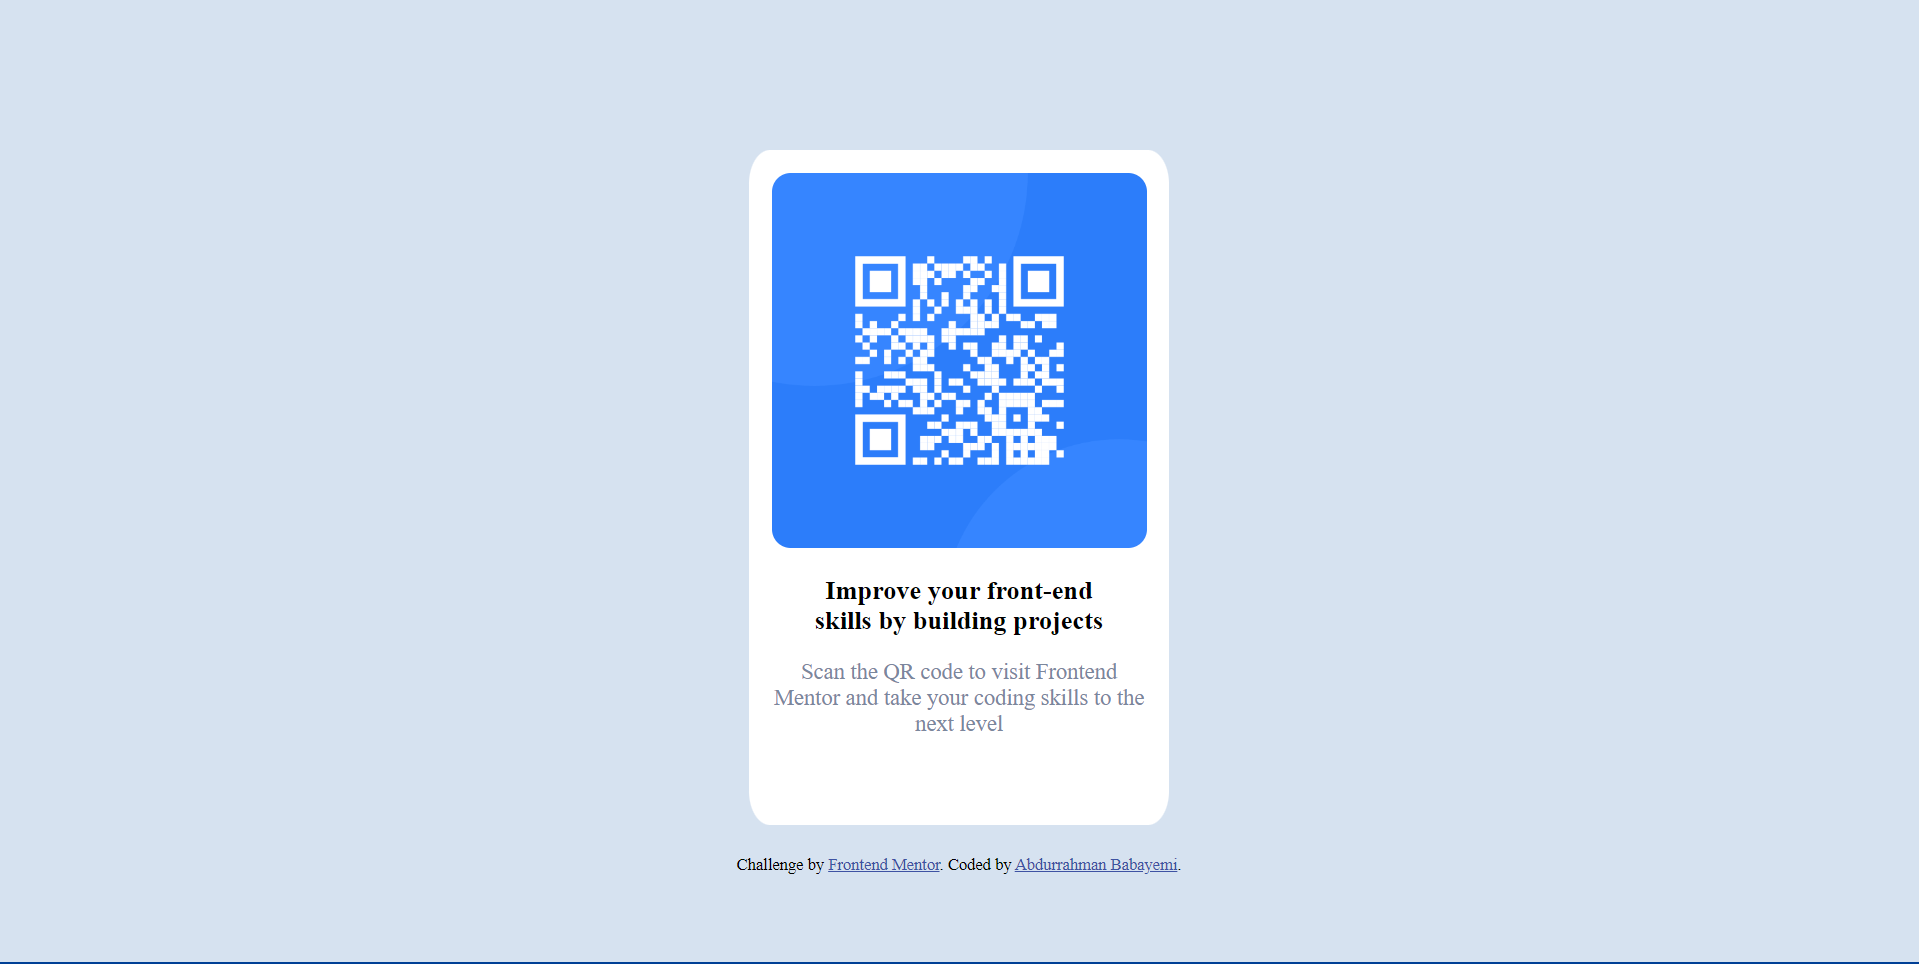
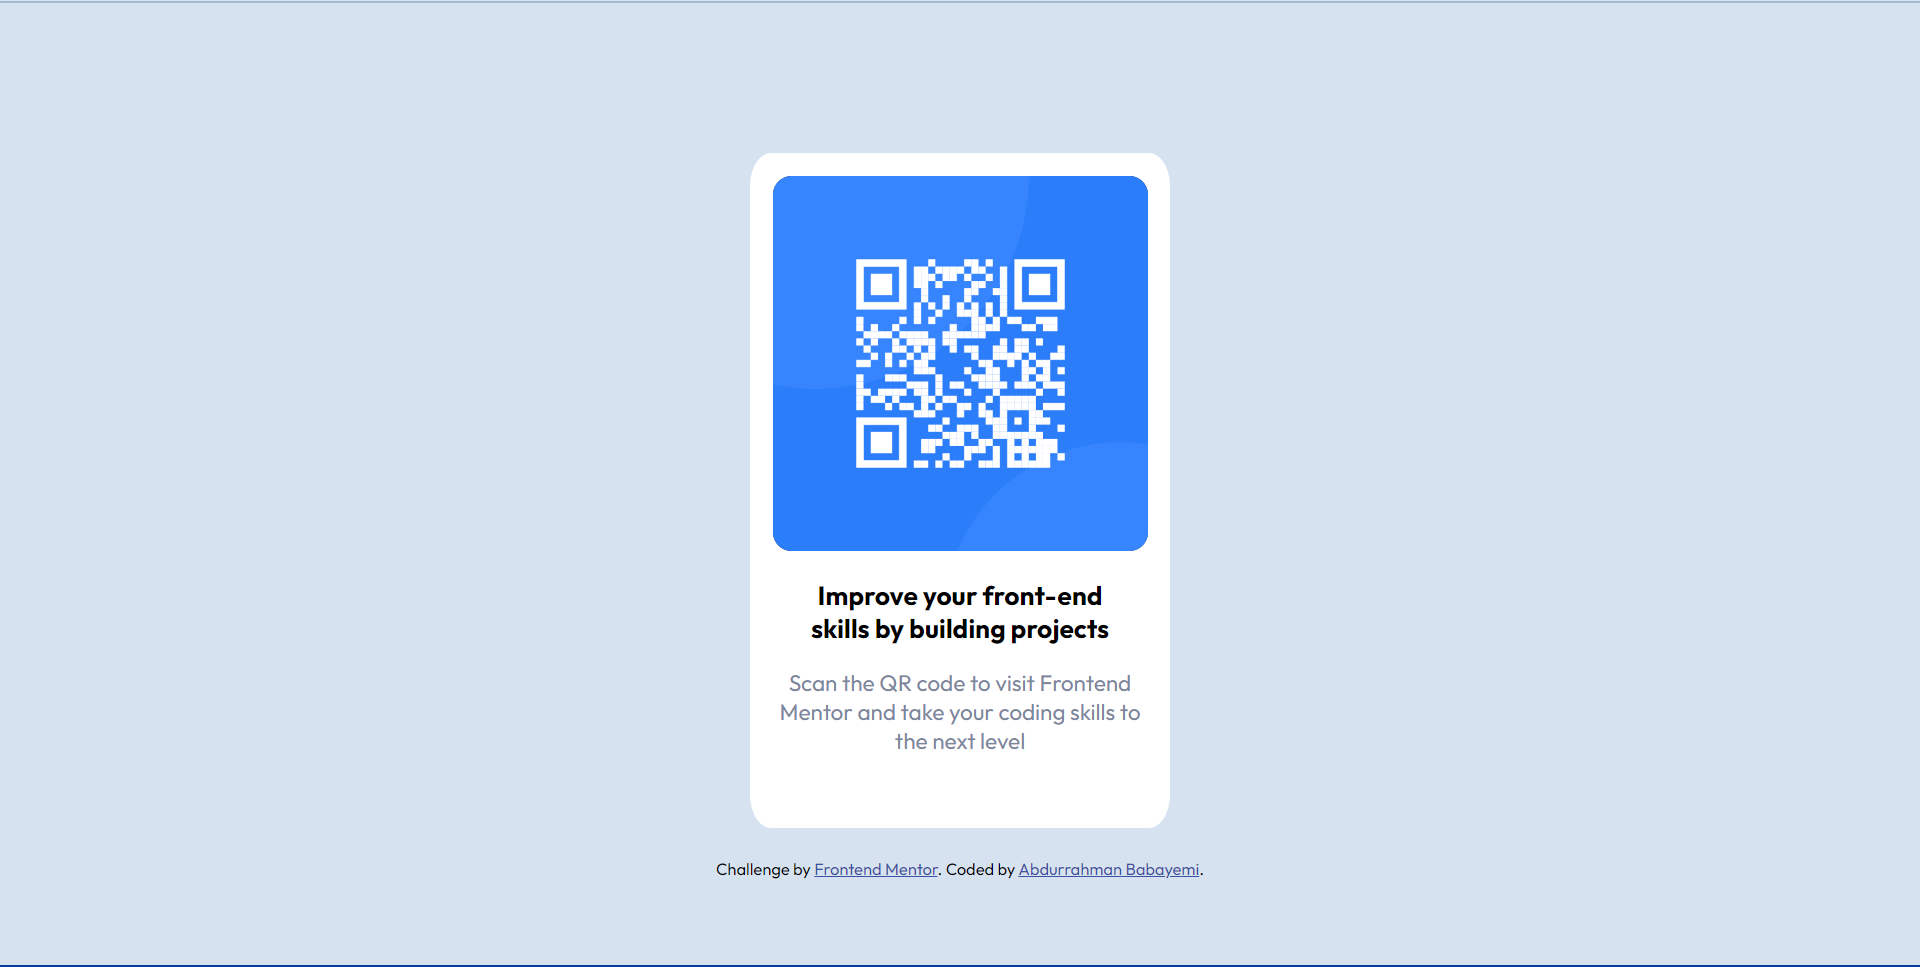
Updated Readme.md

diff --git a/index.html b/index.html
@@ -51,7 +51,6 @@
       color: hsl(220, 15%, 55%);
       width: 90%;
       margin: auto;
-      font-weight: 400;
     }    
   </style>
 </head>

diff --git a/README.md b/README.md
@@ -21,8 +21,8 @@ This is a solution to the [QR code component challenge on Frontend Mentor](https
 
 ### Links
 
-- Solution URL: [Add solution URL here](https://your-solution-url.com)
-- Live Site URL: [Add live site URL here](https://your-live-site-url.com)
+- Solution URL: [Github Link](https://github.com/Abdurrahman-thegeniuscoder/qr-code)
+- Live Site URL: [Vercel Link](https://qr-code-livid-gamma.vercel.app/)
 
 ## My process
 
@@ -49,5 +49,5 @@ I had a grip on:
 ## Author
 
 - Website - [Abdurrahman Babayemi](https://abdurrahman-thegeniuscoder.github.io/cv/)
-- Frontend Mentor - [@yourusername](https://www.frontendmentor.io/profile/yourusername)
+- Frontend Mentor - [@yourusername](https://www.frontendmentor.io/profile/genius-code-124)
 - Twitter - [@geniuscode124](https://www.twitter.com/@geniuscode124)

diff --git a/style-guide.md b/style-guide.md
@@ -1,0 +1,26 @@
+# Front-end Style Guide
+
+## Layout
+
+The designs were created to the following widths:
+
+- Mobile: 375px
+- Desktop: 1440px
+
+## Colors
+
+- White: hsl(0, 0%, 100%)
+- Light gray: hsl(212, 45%, 89%)
+- Grayish blue: hsl(220, 15%, 55%)
+- Dark blue: hsl(218, 44%, 22%)
+
+## Typography
+
+### Body Copy
+
+- Font size (paragraph): 15px
+
+### Font
+
+- Family: [Outfit](https://fonts.google.com/specimen/Outfit)
+- Weights: 400, 700
